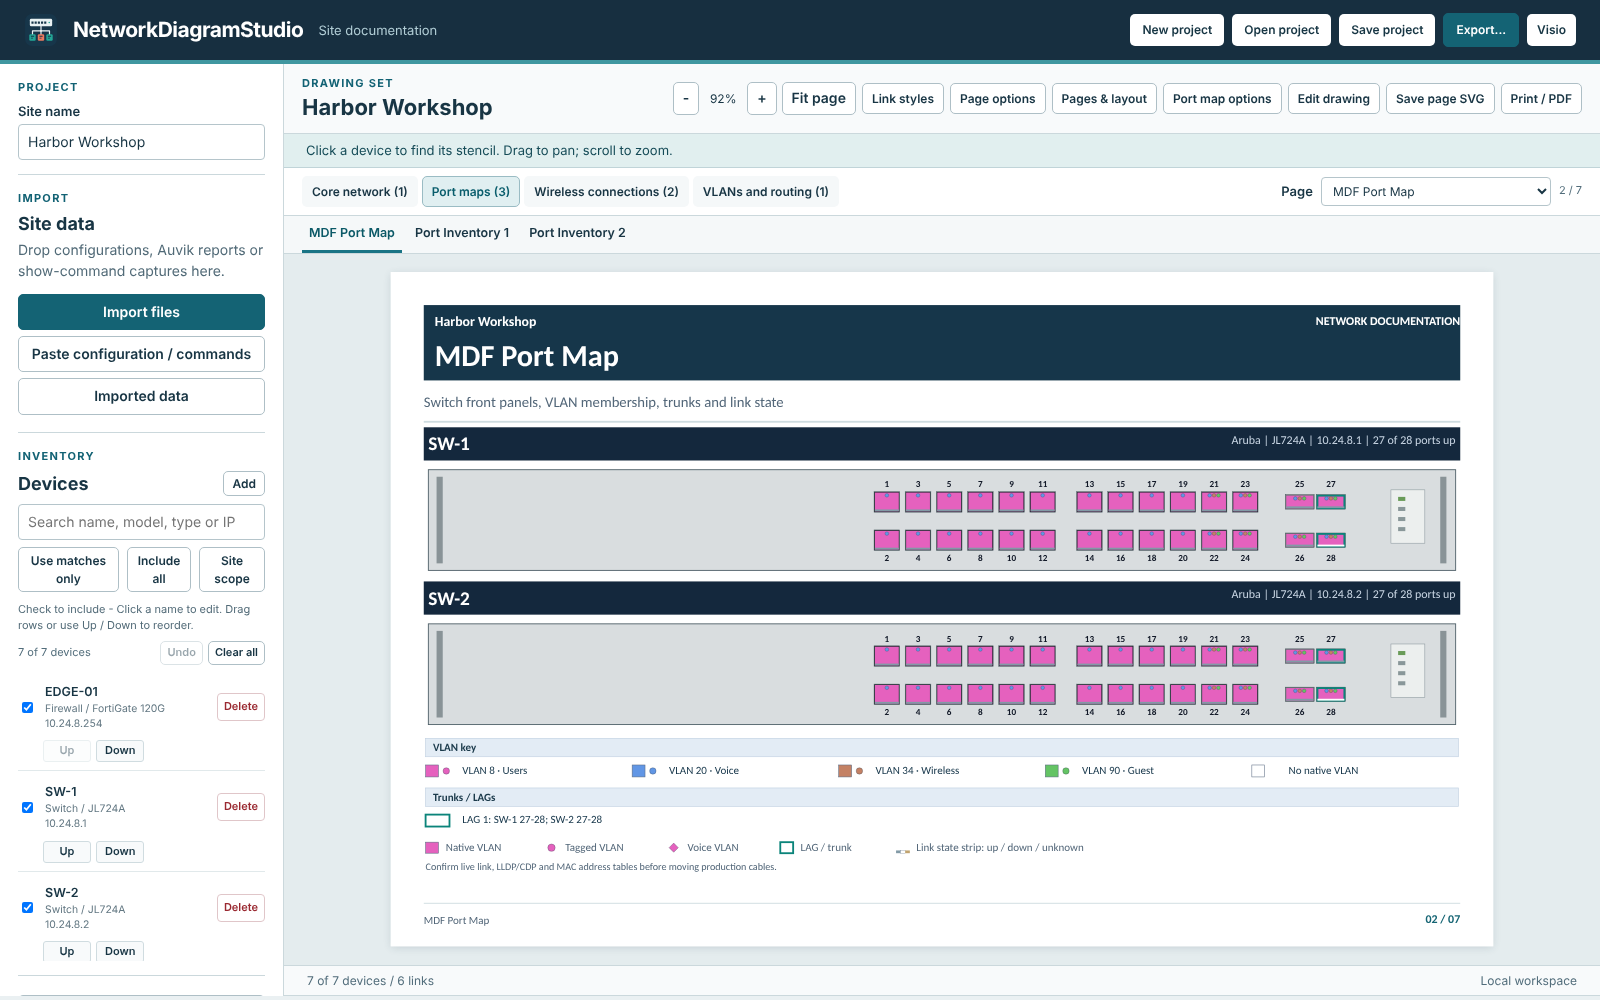
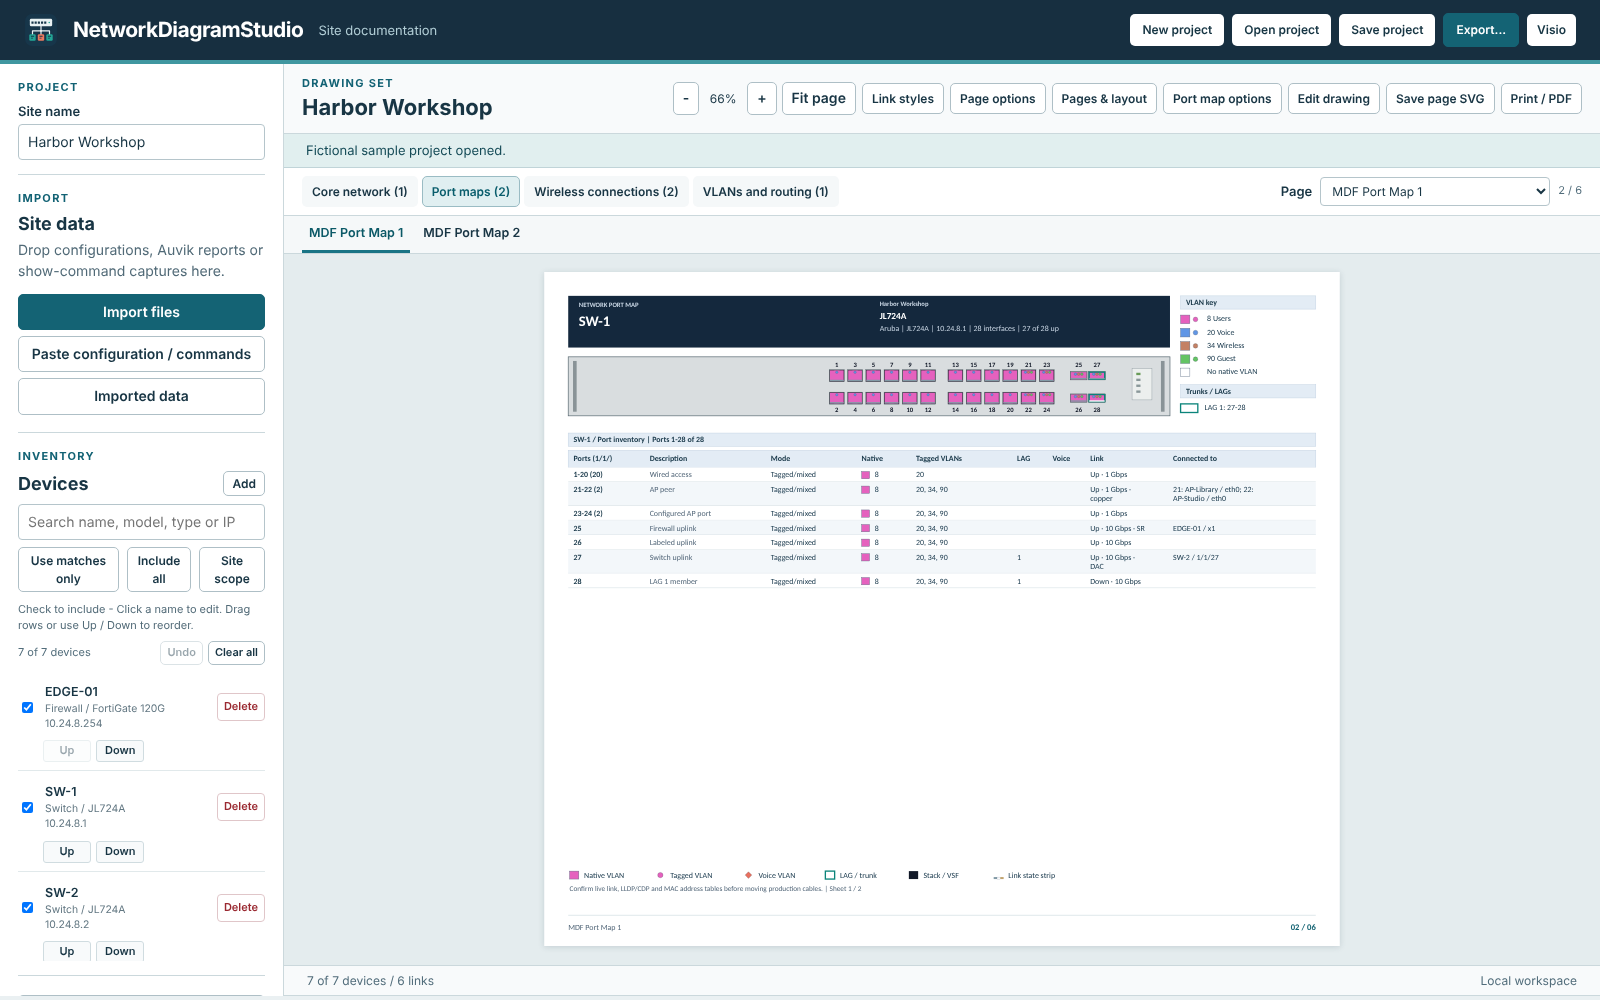
Match Configuration Inspector port-map sheets
Owner review of Configuration Inspector's port maps. Booklet port maps are now builder sheets:
- One device per sheet under a dark header block (NETWORK PORT MAP, device name, project, models, details and interface counts).
- Each stack member drawn as its own member view under a "Member N | model | sockets" bar. Members that do not fit continue on a "(continued)" sheet at the common hardware width.
- Every socket numbered. Configured ports carry the shared-palette VLAN fills, tagged dots, voice diamonds and LAG outlines; recorded stack links are black.
- Chassis modules numbered 1..n, with a slot caption under the chassis.
- The VLAN key in a right-hand column. Trunks / LAGs and port descriptions go under it when they fit, otherwise under the hardware or on a continuation sheet; narrow sheets drop the column.
- A symbol key and safety note at the foot.

The Automatic layout merges each device's inventory table onto its own sheet when that saves pages.

Claude-Session: https://claude.ai/code/session_01AkZzWHGt49R3PiU1bJBPy9

diff --git a/README.md b/README.md
@@ -27,7 +27,7 @@ Network engineers can use the Windows application or the offline browser edition
 - Zoom, pan and Fit page. In Edit drawing, box-select or Shift/Ctrl-click items. Shift-drag locks movement to the initial horizontal or vertical direction. The **Place beside** row stays visible while editing. Choose Left, Right, Above or Below, click the device to move if none is selected, then click the reference device. Automatic spacing measures nearby labels and cable width; Compact, Standard and Extra room retain fixed gap choices; blocked placements stay near the reference or report that there is no space. The reference devices and current zoom stay fixed. Use **Size - / Size +** for quick resizing, and **Size...** for selected items, one page or all pages. **Move to page** places selected devices on a named page with off-page indicators. **Align & space** holds alignment and distribution tools. Configure grid snapping and alignment guides. Double-click text to type directly on the diagram; double-click other elements for properties. Ctrl+Z, Ctrl+Shift+Z and Undo all apply to project changes. Alt-drag selects native panel details.
 - Select cable type and link speed in line properties, the connection editor or a legend swatch. Legend choices update associated connection records across the drawing. Choose Copper, generic/MMF/SMF fiber, SR/LR/ER/ZR, DAC variants, AOC/AEC, coaxial or serial; use speed presets or enter custom values. Captions and active legends follow the selected type.
 - Move near a cable to highlight the nearest selectable route, then click, drag or double-click. The selection allowance stays 12 screen pixels beyond the painted edge at every zoom level. Device artwork, text and bend controls keep priority. Hover highlights are confined to the editor and stay out of exports. Logical VLAN/aggregate observations remain in the data tables and connection review without appearing as duplicate physical cables. Edit cable bends directly, reconnect either end to a selected device/port, and customize line color/opacity or text color with a visual selector, HEX field and standard swatches. Link styles shares colors and titles/descriptions between cables and their legend entries. Legends include only the styles used on each sheet. Automatic cables and their color keys use a consistent standard thickness; exported Visio line widths are explicit and editable.
-- Zoom into port mapping, box-select sockets, move a group with the mouse or arrow keys, and align or distribute the selection. Port maps keep a shared hardware scale and plain port numbers in black or white, whichever reads against the faceplate. Port sheets follow the Switchport Diagram Builder on the app's own faceplates: a dark bar per device, each jack filled in its native VLAN color with a dot per tagged VLAN, a diamond for the voice VLAN and its LAG outline, then a VLAN key, Trunks / LAGs and port descriptions. Each switch gets a Port inventory table (ports, description, mode, native, tagged VLANs, LAG, voice, link and connected device), where consecutive ports with identical settings share a row. VLAN and LAG colors match the Switchport reports. The default Automatic layout puts the faceplates, key and inventory on one sheet when that saves pages without reducing readability. The explicit Separate layout gives faceplates and inventory their own sheets, and the explicit Combined layout keeps the role-colored assignment matrix. Saved edits retain their page identities. Larger stacks continue by member range. Expanded tables, individual rows and optional empty-record filtering remain available.
+- Zoom into port mapping, box-select sockets, move a group with the mouse or arrow keys, and align or distribute the selection. Port maps keep a shared hardware scale and plain port numbers in black or white, whichever reads against the faceplate. Port sheets follow the Switchport Diagram Builder and Configuration Inspector on the app's own faceplates: one device per sheet under a dark header, each stack member under its own bar, every port numbered, and each jack filled in its native VLAN color with a dot per tagged VLAN, a diamond for the voice VLAN and its LAG outline. The VLAN key runs down the right, with Trunks / LAGs and port descriptions beside or under the hardware and a symbol key at the foot. Each switch gets a Port inventory table (ports, description, mode, native, tagged VLANs, LAG, voice, link and connected device), where consecutive ports with identical settings share a row. VLAN and LAG colors match the Switchport reports. The default Automatic layout puts a device's sheet and its inventory on one page when that saves pages without reducing readability. The explicit Separate layout gives faceplates and inventory their own sheets, and the explicit Combined layout keeps the role-colored assignment matrix. Saved edits retain their page identities. Larger stacks continue by member range. Expanded tables, individual rows and optional empty-record filtering remain available.
 - Show manufacturer/model and available MAC addresses on wireless AP captions and other device diagrams. Edit device and interface addresses through readable form fields; single addresses remain visible; long lists become a compact count. Full address lists remain in Device details and the optional information panel.
 - Save and reopen the complete project, including report selections, colors, metadata, imported evidence and drawing edits.
 - Keep complete diagram captions with measured wrapping in both SVG and Visio. Port modules use editable gray optic faces with dark sockets and dark DAC ends with a horizontal insert, matching the Configuration Inspector style. Framed module keys expand or continue onto a module sheet; duplicate wording such as Port port1 is avoided.

diff --git a/AGENTS.md b/AGENTS.md
@@ -63,7 +63,7 @@ For generated core layouts, preserve owner/handoff grouping and keep cable label
 
 Cable rhythm lives in ROUTE_STYLE (routing.mjs): standard device clearance on all four sides, a visible white gap between painted parallels, and shared rail and row pitches. After routing, neatChannels moves the movable runs (departure rows, rails and chassis exterior lanes) onto evenly pitched tracks per channel. It keeps the order of overlapping runs, keeps each block where the router put it inside the clear band (never centered in a wide gap), and leaves device title/detail bands clear when the gap allows. Untangle swaps track orders only when the spaced result has fewer crossings and no new obstruction or merged segment. Every change is validated, and a rejected change keeps the routed geometry. Chassis center tracks keep the visible gap and spread evenly; the next lead uses its column's exterior at the standard clearance and pitch, and only a chassis without exterior room falls back to tight center tracks. Module turns use the band with the most room per lead. Empty slots and the optional MM2 bay are `empty` regions: they open the way toward the peer only, never flip a lead away, and their painted captions stay obstacles. A media caption that cannot sit beside a dense bundle becomes single-line inline connector text with a white background on its own cable, instead of triggering caption-sized rail pitch. Label tests may exempt only background-filled labels on their own path.
 
-Port numbers are plain bold text with no color block. readableOn picks black or white from the faceplate rect under the label; imported artwork keeps dark text. Role or VLAN color belongs on the socket. The default booklet port map follows the Switchport Diagram Builder sheet on NDS's own faceplates (never the builder's squares): a dark device bar; native VLAN fills, tagged dots (excluding native and voice), a voice diamond and LAG outlines from portMapPalette, which is the shared Switchport report palette with saved overrides and a simple fallback; then bookletKey's VLAN key, Trunks / LAGs, port descriptions, symbol key and safety note, continuing onto key sheets. bookletInventory writes one builder-style table per device: consecutive identical ports share a row with a count, and an inferred assignment is shown muted when there is no description. Expanded density keeps its detail table, and an explicitly chosen Combined presentation keeps the role-colored assignment matrix. The Automatic layout compares page counts against a merged builder sheet (mergeSheets): faceplates, VLAN key and each table under a slim section bar on one page, measured at the initial hardware width only, so text scale never changes hardware size. Keep portMap metadata (rowNames, portRecords, shown, total, bookletRole) complete for the editor and filters. Wireless number leads measure the number text items (numberSide, numberBox, socketBounds); there are no separate number boxes.
+Port numbers are plain bold text with no color block. readableOn picks black or white from the faceplate rect under the label; imported artwork keeps dark text. Role or VLAN color belongs on the socket. Booklet port maps follow Configuration Inspector's builder sheet (builderSheets): one whole device per sheet under a dark header block (NETWORK PORT MAP, the device name, the project name, models, details and interface counts). Each stack member is drawn as its own member view under a slim "Member N | model | socket counts" bar, at the common hardware width; members that do not fit continue on a "(continued)" sheet, and the shared planner's member ranges are not used for these sheets. Every socket is numbered; only configured ports carry palette fills, tagged dots (excluding native and voice), a voice diamond, LAG outlines, and black when stackLink or a stack/VSF role is recorded. Chassis modules number their ports 1..n under a slot caption. The VLAN key runs down a right column (keyW). Trunks / LAGs and port descriptions go under it when they fit, otherwise under the hardware or on a continuation sheet; a sheet too narrow for readable numbers drops the column. A symbol key and safety note sit at the foot. bookletInventory writes one builder-style table per device: consecutive identical ports share a row with a count, an inferred assignment is shown muted when there is no description, and every interface address is listed under the mode. Expanded density keeps its detail table, and an explicitly chosen Combined presentation keeps the role-colored assignment matrix. The Automatic layout compares page counts against merged builder sheets (mergeSheets): the device's table starts under its own lists on the same sheet when a slim one-line bar, the heading and the first row fit, measured at the initial hardware width only, so text scale never changes hardware size. Keep portMap metadata (rowNames, portRecords, shown, total, overview, bookletRole) complete for the editor and filters. Wireless number leads measure the number text items (numberSide, numberBox, socketBounds); there are no separate number boxes.
 
 ## Build and verify
 

diff --git a/src/web/diagram/README.md b/src/web/diagram/README.md
@@ -30,7 +30,12 @@ Module center tracks, exterior fans and socket departures account for each cable
 
 After the bounded search, a neat-channel pass gives the drawing one rhythm (ROUTE_STYLE). Rails, departure rows and chassis exterior lanes move onto evenly pitched tracks inside each clear channel, at least the standard clearance from every device side and with a visible gap between parallel strokes. Overlapping runs keep their order, and track swaps are kept only when they remove crossings. Each change is checked for obstructions, merged segments and crossings before it is kept. Leads of a modular chassis may pass through an empty slot or the empty second management bay toward their peer. A media caption that would otherwise force wider rails is drawn on its own cable as single-line connector text with a white background.
 
-Port numbers on every faceplate are plain black or white text chosen against the faceplate color. The default booklet port map follows the Switchport Diagram Builder sheet with the app's own faceplates: native VLAN fills, tagged dots, voice diamonds and LAG outlines from the shared report palette, followed by a VLAN key, Trunks / LAGs and port descriptions. Port Inventory pages are one builder-style table per device.
+Port numbers on every faceplate are plain black or white text chosen against the faceplate color. Booklet port maps follow the Configuration Inspector / Switchport Diagram Builder sheet with the app's own faceplates:
+- one device per sheet under a dark header block, with each stack member under its own bar;
+- native VLAN fills, tagged dots, voice diamonds and LAG outlines from the shared report palette;
+- the VLAN key in a right-hand column, with Trunks / LAGs and port descriptions beside or under the hardware, and a symbol key at the foot.
+
+Port Inventory pages are one builder-style table per device. The Automatic layout may place that table on the device's own sheet when this saves pages.
 
 Drawing overrides live under layout.drawingEdits. Device groups keep port glue, and normalized native details remain separately editable. Continued hardware sheets have individual edit scopes. The editor supports direct drag, multiple selection, alignment/distribution and bounded undo histories. Native artwork text keeps weight and alignment in SVG/Visio. Rectangles, connector names and native path names retain their object names in Visio. Source artwork and private site examples stay outside the repository.
 

diff --git a/DEVELOPMENT_HANDOFF.md b/DEVELOPMENT_HANDOFF.md
@@ -28,6 +28,15 @@ Merged with preview.33 (#31):
 - The inventory shows every interface address under its mode.
 - hero.png, port-map.png and organize-connections.png were recaptured; compact-wireless.png was re-rendered from the fixture.
 
+After owner review of Configuration Inspector's sheets, booklet port maps became Configuration Inspector builder sheets:
+- one device per sheet with a dark header block;
+- stack members drawn individually under member bars;
+- every socket numbered, and chassis modules numbered 1..n under a slot caption;
+- a right-hand VLAN key column, with Trunks / LAGs and descriptions beside or under the hardware;
+- a footer symbol key.
+
+Whole devices are drawn once (no planner member ranges), and members continue onto another sheet at the common width. Visio exports gain one master per drawn stack member.
+
 New tests: tests/route-rhythm.test.mjs and tests/portmap-sheets.test.mjs. Tests that asserted the old tight geometry or number boxes were updated to the new rules: modular center/exterior counts, empty-bay crossing, local corridor bound, inline caption exemption, grouped inventory rows and the VLAN key heading.
 
 Local validation: all Node tests, the seven Python package tests, node scripts/check-repo.mjs, node scripts/build-web.mjs, and the nine fictional Visio packages from scripts/export-test-fixtures.mjs checked with scripts/check-visio-package.py. Rendered SVG pages and the offline app were inspected in Chromium. hero.png and port-map.png were recaptured from the built offline app with the fictional sample. Still required: Windows build, native checks on the hosted runner, and opening an export in desktop Visio. Release intent and version are unchanged.
